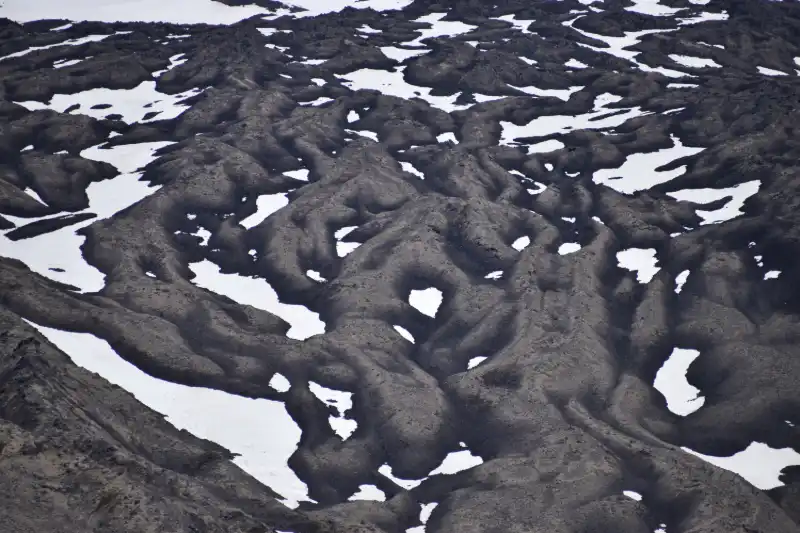
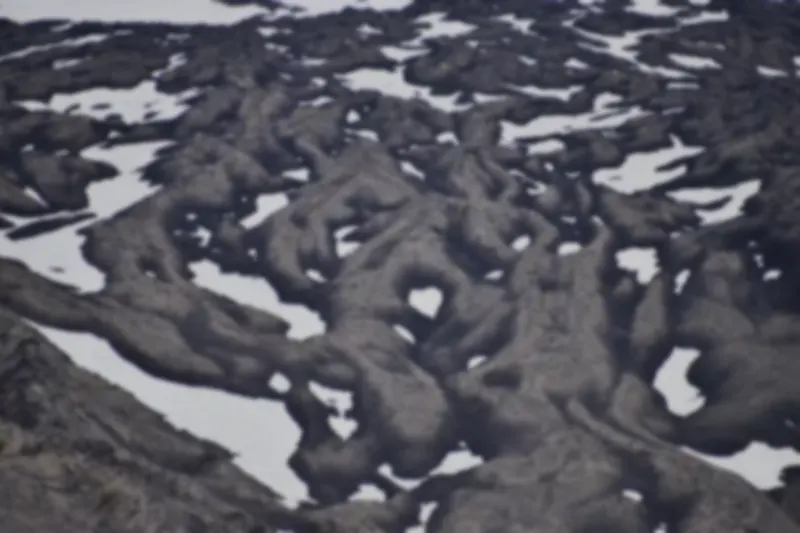
feature: open-source projects in selected work, softer hero backdrop
- Add Minnumst (featured, with a flow) and recipify to Selected Work,
  plus the thesis code link; projects now take a list of links
- Allow personal projects to link only to the owner's own repositories
  and site, and check every project link is https
- Add OpenTofu and Bash to the skills, and the career arc to About
- Blur the hero lava backdrop and roll off the snow highlights
  (128 KB to 60 KB for both sizes)
- Stop tracking raw camera originals, as .gitignore intends

diff --git a/src/content.ts b/src/content.ts
@@ -33,9 +33,15 @@ export const profile = {
   ],
   // About page narrative: what I do, how I work, and how I lead.
   about: [
-    "I work in platform operations: Kubernetes clusters managed with " +
-      "Terragrunt, Helm and ArgoCD, GitLab CI/CD pipelines, and " +
-      "observability with Prometheus, Grafana and Alertmanager.",
+    "I'm a physicist turned platform engineer. My path started in " +
+      "computational neuroscience, where I modelled brain signals at the " +
+      "University of Oslo. From there I moved into data science and NLP, " +
+      "then into building Azure microservices, and now I work in cloud " +
+      "operations at SENEC.",
+    "Day to day that means Kubernetes clusters managed with Terragrunt, " +
+      "Helm and ArgoCD, GitLab CI/CD pipelines, and observability with " +
+      "Prometheus, Grafana and Alertmanager. I like systems that are secure " +
+      "by default, reproducible, and boring to run.",
     "I enjoy building architectures from scratch and joining projects " +
       "early, while there is still room to shape them: map the problem, " +
       "research the options, prove the idea, then build it properly. I care " +
@@ -44,6 +50,9 @@ export const profile = {
       "promoted through environments before they reach production.",
     "I have led and worked closely with UX and design, frontend and backend " +
       "teams, and I enjoy onboarding and training new team members.",
+    "Outside work I build open-source projects end to end, such as " +
+      "Minnumst, a self-hosted family history archive, from the app down to " +
+      "the hardened host it runs on.",
   ],
 };
 
@@ -224,9 +233,11 @@ export const experiences: Experience[] = [
   },
 ];
 
-// Selected work for the home page. Every statement must come from the CV
-// (docs/cv/cv.md); add measured outcomes here only when the owner provides
-// them.
+// Selected work for the home page. Work and research entries must come from
+// the CV (docs/cv/cv.md). `personal` entries are the owner's own open-source
+// projects, described as on his GitHub profile (github.com/steinnhauser);
+// they are not on the CV. Every link must be cited in the CV or point to
+// the owner's own GitHub or site (checked in cv.test.ts). Add measured outcomes only when the owner provides them.
 export type Project = {
   title: string;
   context: string;
@@ -234,8 +245,9 @@ export type Project = {
   // Optional "how it fits together" flow, rendered as a small diagram.
   flow?: { label: string; detail: string }[];
   tags: string[];
-  link?: { label: string; href: string };
+  links?: { label: string; href: string }[];
   featured?: boolean;
+  personal?: boolean;
 };
 
 export const projects: Project[] = [
@@ -260,6 +272,56 @@ export const projects: Project[] = [
     featured: true,
   },
   {
+    title: "Minnumst: a self-hosted family history archive",
+    context: "Open source · Personal project",
+    summary:
+      "A public archive, an editorial desk and an API that keeps every " +
+      "story revision, built end to end from the app to the hardened host " +
+      "it runs on. OpenTofu creates the Hetzner host, Ansible hardens it to " +
+      "the CIS benchmarks (scored with Lynis in CI), and Traefik with " +
+      "Authentik is the only way in. Releases are multi-arch images with an " +
+      "SBOM and build provenance.",
+    flow: [
+      { label: "OpenTofu", detail: "Hetzner host, firewall, encrypted state" },
+      { label: "Ansible", detail: "CIS-hardened host, scored with Lynis" },
+      { label: "Traefik + Authentik", detail: "TLS edge, auth on every write" },
+      { label: "The app", detail: "FastAPI, React and PostgreSQL" },
+    ],
+    tags: [
+      "OpenTofu",
+      "Ansible",
+      "Docker Compose",
+      "Traefik",
+      "Authentik",
+      "FastAPI",
+      "React",
+      "PostgreSQL",
+    ],
+    links: [
+      {
+        label: "github.com/steinnhauser/minnumst",
+        href: "https://github.com/steinnhauser/minnumst",
+      },
+    ],
+    featured: true,
+    personal: true,
+  },
+  {
+    title: "recipify: a verified document pipeline",
+    context: "Open source · Personal project",
+    summary:
+      "Turns about 1,900 mixed recipe files (Word, PDF, spreadsheets, " +
+      "scans) into 524 recipes, each checked word for word against its " +
+      "source and traceable back to it. 100% test coverage, with a live " +
+      "demo built by CI.",
+    tags: ["Python", "pytest", "poppler", "GitHub Actions"],
+    links: [
+      { label: "Live demo", href: "https://steinnhm.com/recipify/demo/" },
+      { label: "Code", href: "https://github.com/steinnhauser/recipify" },
+    ],
+    personal: true,
+  },
+  {
     title: "Cardiac artefact removal for MNE-Python",
     context: "Max Planck Institute · Guest Developer · 2024-2025",
     summary:
@@ -267,10 +329,12 @@ export const projects: Project[] = [
       "artefacts from spinal electrophysiology data, contributed to the " +
       "open-source MNE-Python library.",
     tags: ["Python", "MNE-Python", "Signal processing", "Open source"],
-    link: {
-      label: "Pull request #13037",
-      href: "https://github.com/mne-tools/mne-python/pull/13037",
-    },
+    links: [
+      {
+        label: "Pull request #13037",
+        href: "https://github.com/mne-tools/mne-python/pull/13037",
+      },
+    ],
   },
   {
     title: "Predicting brain signals from neuronal networks",
@@ -281,10 +345,16 @@ export const projects: Project[] = [
       "simulating neuronal networks in Python with LFPy. Published in PLOS " +
       "Computational Biology (2022).",
     tags: ["Python", "LFPy", "Computational neuroscience", "Simulation"],
-    link: {
-      label: "doi.org/10.1371/journal.pcbi.1010353",
-      href: "https://doi.org/10.1371/journal.pcbi.1010353",
-    },
+    links: [
+      {
+        label: "Paper",
+        href: "https://doi.org/10.1371/journal.pcbi.1010353",
+      },
+      {
+        label: "Thesis code",
+        href: "https://github.com/steinnhauser/msc-thesis-lfp",
+      },
+    ],
   },
 ];
 
@@ -300,7 +370,7 @@ export function experienceYears(exp: Experience): string {
 export const skillGroups = [
   {
     title: "Cloud & Infrastructure as Code",
-    skills: ["Azure", "AWS", "Terraform", "Terragrunt", "Linux"],
+    skills: ["Azure", "AWS", "Terraform", "Terragrunt", "OpenTofu", "Linux"],
   },
   {
     title: "Containers & GitOps",
@@ -323,6 +393,7 @@ export const skillGroups = [
     skills: [
       "Python",
       "Go",
+      "Bash",
       "TypeScript",
       "React",
       "PostgreSQL",

diff --git a/src/pages/home/ProjectsSection.tsx b/src/pages/home/ProjectsSection.tsx
@@ -14,14 +14,43 @@ import {
 import { projects, type Project } from "../../content";
 import { breakpoints, colors, fonts } from "../../theme";
 
+// Featured projects span the full width; the others sit three to a row,
+// two on tablets (an odd one out spans the row) and one on phones.
 const Grid = styled.div`
   display: grid;
-  grid-template-columns: repeat(2, minmax(0, 1fr));
+  grid-template-columns: repeat(6, minmax(0, 1fr));
   gap: 18px;
 
+  > * {
+    grid-column: span 2;
+  }
+  > [data-featured] {
+    grid-column: 1 / -1;
+  }
+
+  @media (max-width: 1000px) {
+    > * {
+      grid-column: span 3;
+    }
+    > :not([data-featured]):last-child:nth-child(odd) {
+      grid-column: 1 / -1;
+    }
+  }
   @media (max-width: ${breakpoints.mobile}) {
     grid-template-columns: minmax(0, 1fr);
+
+    > *,
+    > :not([data-featured]):last-child:nth-child(odd) {
+      grid-column: 1 / -1;
+    }
   }
+`;
+
+const Links = styled.p`
+  display: flex;
+  flex-wrap: wrap;
+  gap: 4px 18px;
+  font-size: 0.92rem;
 `;
 
 const Card = styled(LiquidPanel)<{ $featured: boolean }>`
@@ -29,7 +58,6 @@ const Card = styled(LiquidPanel)<{ $featured: boolean }>`
   flex-direction: column;
   gap: 14px;
   padding: clamp(22px, 3vw, 34px);
-  grid-column: ${(p) => (p.$featured ? "1 / -1" : "auto")};
 
   h3 {
     margin: 0;
@@ -42,9 +70,15 @@ const Card = styled(LiquidPanel)<{ $featured: boolean }>`
     line-height: 1.7;
     max-width: 72ch;
   }
-  ${TagList} {
+  /* Links and tags sit at the bottom, so cards in a row line up. */
+  ${Links}, ${TagList} {
     margin-top: auto;
+  }
+  ${TagList} {
     padding-top: 6px;
+  }
+  ${Links} + ${TagList} {
+    margin-top: 0;
   }
 `;
 
@@ -101,10 +135,6 @@ const Flow = styled.ol`
   }
 `;
 
-const LinkOut = styled(ExternalLink)`
-  font-size: 0.92rem;
-`;
-
 function ProjectCard({
   project,
   index,
@@ -114,15 +144,20 @@ function ProjectCard({
   index: number;
   visible: boolean;
 }) {
-  const { title, context, summary, flow, tags, link, featured } = project;
+  const { title, context, summary, flow, tags, links, featured } = project;
   return (
-    <Card as="article" $featured={!!featured} style={reveal(visible, index)}>
+    <Card
+      as="article"
+      $featured={!!featured}
+      data-featured={featured || undefined}
+      style={reveal(visible, index)}
+    >
       <Eyebrow>{context}</Eyebrow>
       <h3>{title}</h3>
       <p>{summary}</p>
       {flow && (
         <Flow
-          aria-label="How it fits together"
+          aria-label={`${title}: how it fits together`}
           style={{ "--steps": flow.length } as CSSProperties}
         >
           {flow.map((step) => (
@@ -133,7 +168,15 @@ function ProjectCard({
           ))}
         </Flow>
       )}
-      {link && <LinkOut href={link.href}>{link.label} ↗</LinkOut>}
+      {links && (
+        <Links>
+          {links.map((l) => (
+            <ExternalLink key={l.href} href={l.href}>
+              {l.label} ↗
+            </ExternalLink>
+          ))}
+        </Links>
+      )}
       <TagList aria-label={`${title}: technologies`}>
         {tags.map((t) => (
           <Tag key={t}>{t}</Tag>

diff --git a/src/cv.test.ts b/src/cv.test.ts
@@ -49,14 +49,31 @@ describe("site content matches the CV", () => {
   });
 
   it("links the publication and open-source work cited in the CV", () => {
-    const links = [...academics, ...volunteering, ...projects].flatMap((x) =>
+    const links = [...academics, ...volunteering].flatMap((x) =>
       x.link ? [x.link.href] : [],
     );
     for (const href of links) expect(onCv(href), href).toBe(true);
   });
 
+  // Personal projects aren't on the CV; they may only link to the owner's
+  // own repositories and site. Everything else must be cited in the CV.
+  it("links selected work to the CV or the owner's own repositories", () => {
+    const own = /^https:\/\/(github\.com\/steinnhauser\/|steinnhm\.com\/)/;
+    for (const p of projects) {
+      for (const { href } of p.links ?? []) {
+        expect(onCv(href) || own.test(href), `${p.title}: ${href}`).toBe(true);
+      }
+    }
+    for (const p of projects.filter((p) => !p.personal)) {
+      expect(
+        (p.links ?? []).some((l) => onCv(l.href)) || p.featured,
+        `${p.title} cites the CV`,
+      ).toBe(true);
+    }
+  });
+
   it("describes selected work with the CV's own technologies", () => {
-    const platform = projects.find((p) => p.featured);
+    const platform = projects.find((p) => p.featured && !p.personal);
     expect(platform).toBeDefined();
     for (const term of ["aptly", "mTLS", "golang", "API gateway", "WireGuard"])
       expect(onCv(term), term).toBe(true);

diff --git a/src/App.test.tsx b/src/App.test.tsx
@@ -45,9 +45,11 @@ describe("home page", () => {
         screen.getByRole("heading", { name: p.title }),
       ).toBeInTheDocument();
     }
-    expect(
-      screen.getByRole("list", { name: "How it fits together" }),
-    ).toBeInTheDocument();
+    for (const p of projects.filter((p) => p.flow)) {
+      expect(
+        screen.getByRole("list", { name: `${p.title}: how it fits together` }),
+      ).toBeInTheDocument();
+    }
   });
 
   it("shows every skill group and certification", () => {

diff --git a/src/content.test.ts b/src/content.test.ts
@@ -6,6 +6,7 @@ import {
   experienceYears,
   languages,
   profile,
+  projects,
   skillGroups,
   socials,
   volunteering,
@@ -60,6 +61,7 @@ describe("content", () => {
       ...socials.map((s) => s.href),
       ...academics.flatMap((a) => (a.link ? [a.link.href] : [])),
       ...volunteering.flatMap((v) => (v.link ? [v.link.href] : [])),
+      ...projects.flatMap((p) => (p.links ?? []).map((l) => l.href)),
     ];
     for (const href of hrefs) expect(href).toMatch(/^https:\/\//);
   });
